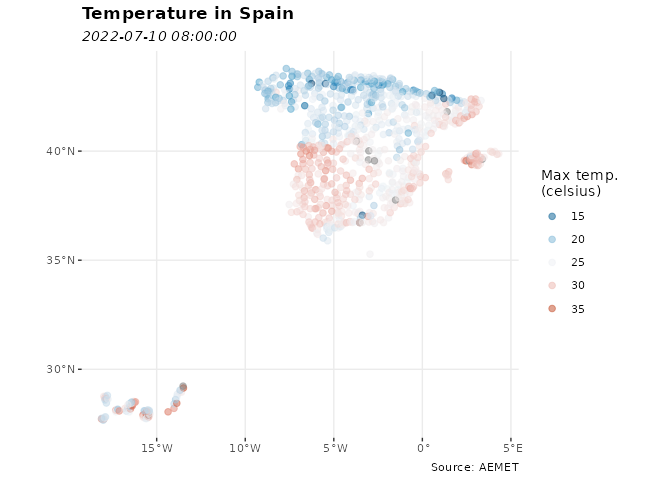
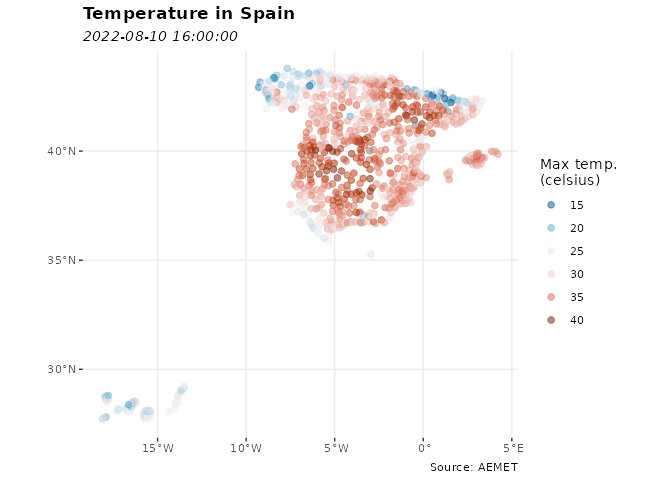
Update docs with pkgdev

diff --git a/README.md b/README.md
@@ -123,20 +123,21 @@ aemet_last_obs("9434")
 #> # A tibble: 24 × 25
 #>    idema   lon fint                 prec   alt  vmax    vv    dv   lat  dmax
 #>    <chr> <dbl> <dttm>              <dbl> <dbl> <dbl> <dbl> <dbl> <dbl> <dbl>
-#>  1 9434  -1.00 2022-07-10 08:00:00     0   249   7.4   4.2   304  41.7   310
-#>  2 9434  -1.00 2022-07-10 09:00:00     0   249   6.7   4.8   304  41.7   303
-#>  3 9434  -1.00 2022-07-10 10:00:00     0   249   6.3   3.9   307  41.7   310
-#>  4 9434  -1.00 2022-07-10 11:00:00     0   249   6.8   3.3   314  41.7   313
-#>  5 9434  -1.00 2022-07-10 12:00:00     0   249   5.3   2.7   322  41.7   305
-#>  6 9434  -1.00 2022-07-10 13:00:00     0   249   5.1   2.3   352  41.7   325
-#>  7 9434  -1.00 2022-07-10 14:00:00     0   249   4.7   1.8    18  41.7   340
-#>  8 9434  -1.00 2022-07-10 15:00:00     0   249   3.9   1.7    16  41.7   333
-#>  9 9434  -1.00 2022-07-10 16:00:00     0   249   3.5   1.6    27  41.7    23
-#> 10 9434  -1.00 2022-07-10 17:00:00     0   249   2.9   1.2   110  41.7   113
+#>  1 9434  -1.00 2022-08-10 16:00:00     0   249   5.3   2.8   122  41.7   130
+#>  2 9434  -1.00 2022-08-10 17:00:00     0   249   4.9   3.1   103  41.7   120
+#>  3 9434  -1.00 2022-08-10 18:00:00     0   249   4.4   3     115  41.7   100
+#>  4 9434  -1.00 2022-08-10 19:00:00     0   249   3.8   2.5   120  41.7   115
+#>  5 9434  -1.00 2022-08-10 20:00:00     0   249   4.9   3.5   113  41.7   123
+#>  6 9434  -1.00 2022-08-10 21:00:00     0   249   7.9   5.1   106  41.7   103
+#>  7 9434  -1.00 2022-08-10 22:00:00     0   249   9.1   5     126  41.7    93
+#>  8 9434  -1.00 2022-08-10 23:00:00     0   249   7.6   4.7   123  41.7   103
+#>  9 9434  -1.00 2022-08-11 00:00:00     0   249   6.6   4.5   136  41.7   130
+#> 10 9434  -1.00 2022-08-11 01:00:00     0   249   5.8   4.1   141  41.7   125
 #> # … with 14 more rows, and 15 more variables: ubi <chr>, pres <dbl>, hr <dbl>,
 #> #   stdvv <dbl>, ts <dbl>, pres_nmar <dbl>, tamin <dbl>, ta <dbl>, tamax <dbl>,
 #> #   tpr <dbl>, stddv <dbl>, inso <dbl>, tss5cm <dbl>, pacutp <dbl>,
 #> #   tss20cm <dbl>
+#> # ℹ Use `print(n = ...)` to see more rows, and `colnames()` to see all variable names
 ```
 
 ### Examples
@@ -171,12 +172,12 @@ knitr::kable(head(data_observation))
 
 | idema |       lon | fint                | prec | alt | vmax |  vv |  dv |      lat | dmax | ubi                 |  pres |  hr | stdvv |   ts | pres_nmar | tamin |   ta | tamax |  tpr | stddv | inso | tss5cm | pacutp | tss20cm |
 |:------|----------:|:--------------------|-----:|----:|-----:|----:|----:|---------:|-----:|:--------------------|------:|----:|------:|-----:|----------:|------:|-----:|------:|-----:|------:|-----:|-------:|-------:|--------:|
-| 9434  | -1.004167 | 2022-07-10 08:00:00 |    0 | 249 |  7.4 | 4.2 | 304 | 41.66056 |  310 | ZARAGOZA AEROPUERTO | 989.9 |  48 |   0.6 | 28.2 |    1018.8 |  22.9 | 23.9 |  23.9 | 12.2 |     9 |   60 |   28.0 |      0 |    29.3 |
-| 9434  | -1.004167 | 2022-07-10 09:00:00 |    0 | 249 |  6.7 | 4.8 | 304 | 41.66056 |  303 | ZARAGOZA AEROPUERTO | 989.5 |  44 |   0.8 | 30.6 |    1018.3 |  23.9 | 25.6 |  25.6 | 12.4 |     9 |   60 |   29.3 |      0 |    29.1 |
-| 9434  | -1.004167 | 2022-07-10 10:00:00 |    0 | 249 |  6.3 | 3.9 | 307 | 41.66056 |  310 | ZARAGOZA AEROPUERTO | 988.9 |  40 |   0.9 | 33.1 |    1017.5 |  25.6 | 27.5 |  27.5 | 12.7 |    17 |   60 |   30.8 |      0 |    29.0 |
-| 9434  | -1.004167 | 2022-07-10 11:00:00 |    0 | 249 |  6.8 | 3.3 | 314 | 41.66056 |  313 | ZARAGOZA AEROPUERTO | 988.2 |  38 |   0.9 | 35.1 |    1016.6 |  27.5 | 29.1 |  29.1 | 13.4 |    18 |   60 |   32.6 |      0 |    29.1 |
-| 9434  | -1.004167 | 2022-07-10 12:00:00 |    0 | 249 |  5.3 | 2.7 | 322 | 41.66056 |  305 | ZARAGOZA AEROPUERTO | 987.5 |  32 |   0.8 | 37.6 |    1015.7 |  29.1 | 31.1 |  31.1 | 12.4 |    21 |   60 |   34.7 |      0 |    29.3 |
-| 9434  | -1.004167 | 2022-07-10 13:00:00 |    0 | 249 |  5.1 | 2.3 | 352 | 41.66056 |  325 | ZARAGOZA AEROPUERTO | 986.8 |  27 |   0.8 | 39.1 |    1014.8 |  31.1 | 33.0 |  33.1 | 11.6 |    25 |   60 |   36.7 |      0 |    29.6 |
+| 9434  | -1.004167 | 2022-08-10 16:00:00 |    0 | 249 |  5.3 | 2.8 | 122 | 41.66056 |  130 | ZARAGOZA AEROPUERTO | 983.2 |  19 |   0.5 | 41.1 |    1010.6 |  37.6 | 38.0 |  38.4 | 10.4 |    14 | 55.6 |   43.4 |      0 |    36.1 |
+| 9434  | -1.004167 | 2022-08-10 17:00:00 |    0 | 249 |  4.9 | 3.1 | 103 | 41.66056 |  120 | ZARAGOZA AEROPUERTO | 982.9 |  21 |   0.7 | 39.0 |    1010.3 |  37.5 | 37.5 |  38.3 | 11.4 |    11 | 51.6 |   42.8 |      0 |    36.6 |
+| 9434  | -1.004167 | 2022-08-10 18:00:00 |    0 | 249 |  4.4 | 3.0 | 115 | 41.66056 |  100 | ZARAGOZA AEROPUERTO | 982.7 |  26 |   0.4 | 36.6 |    1010.3 |  35.8 | 35.8 |  37.5 | 13.4 |     7 | 10.6 |   41.8 |      0 |    36.9 |
+| 9434  | -1.004167 | 2022-08-10 19:00:00 |    0 | 249 |  3.8 | 2.5 | 120 | 41.66056 |  115 | ZARAGOZA AEROPUERTO | 982.9 |  26 |   0.3 | 33.9 |    1010.6 |  34.4 | 34.4 |  35.8 | 12.1 |     7 | 15.6 |   40.5 |      0 |    37.2 |
+| 9434  | -1.004167 | 2022-08-10 20:00:00 |    0 | 249 |  4.9 | 3.5 | 113 | 41.66056 |  123 | ZARAGOZA AEROPUERTO | 983.9 |  26 |   0.5 | 32.8 |    1011.8 |  33.2 | 33.2 |  34.4 | 11.1 |     9 |  0.0 |   39.2 |      0 |    37.4 |
+| 9434  | -1.004167 | 2022-08-10 21:00:00 |    0 | 249 |  7.9 | 5.1 | 106 | 41.66056 |  103 | ZARAGOZA AEROPUERTO | 984.6 |  35 |   0.9 | 31.8 |    1012.6 |  32.0 | 32.0 |  33.2 | 14.6 |    10 |  0.0 |   38.3 |      0 |    37.4 |
 
 ``` r
 ## Get daily/annual climatology values for a station
